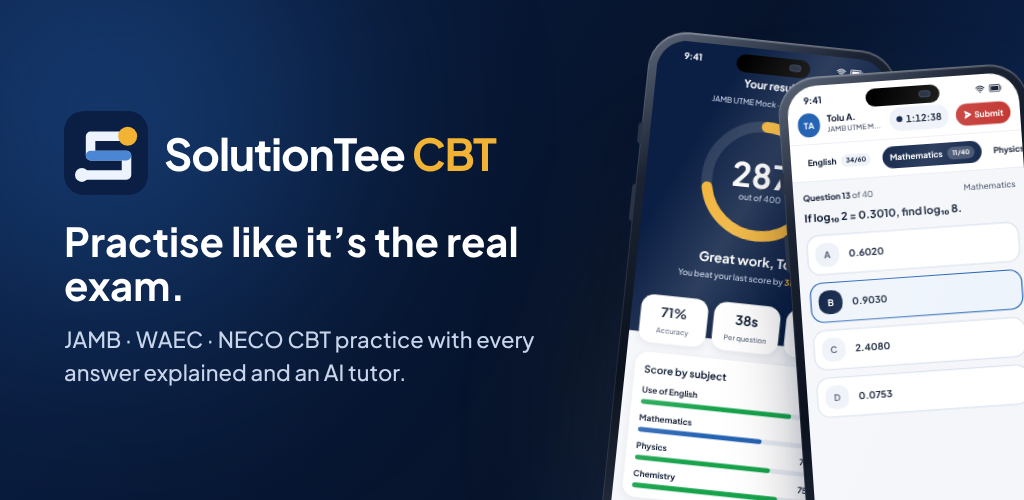
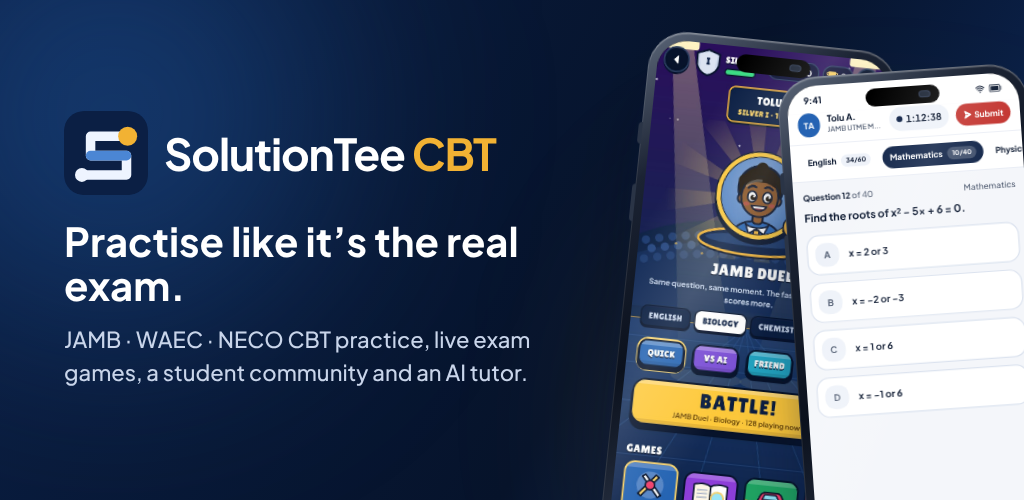
Play listing: new short and full description, store images 8-10, feature graphic, screenshot order, data safety line, what's new text
Claude-Session: https://claude.ai/code/session_01JPjwGfBDzbmRsSJFnQX7Gy

diff --git a/docs/play-console/README.md b/docs/play-console/README.md
@@ -13,6 +13,7 @@ Package name: **`com.solutiontee.cbt`**. Pages and files referred to below are a
 | Phone screenshots 1080 × 1920 (5) | `graphics/phone-1-cbt.png` … `graphics/phone-5-leaderboard.png` |
 | `graphics/phone-6-invite-friends.png` | Phone screenshot 6: invite friends and earn (Premium discount + XP) |
 | `graphics/phone-7-challenges.png` | Phone screenshot 7: practise in challenges and win (Premium days + XP) |
+| `graphics/phone-8-game-zone.png`, `phone-9-comprehension-clash.png`, `phone-10-community.png` | Phone screenshots 8–10 (13 Nov 2026): Game Zone, Comprehension Clash, Community, from the app's own screens |
 | `graphics/phone-6-invite-friends-cash.png`, `phone-7-challenges-cash.png` | Use instead of 6 and 7 **only** after cash prizes are approved and switched on |
 | Privacy Policy | https://cbt.solutiontee.com/privacy |
 | Terms of Service | https://cbt.solutiontee.com/terms |
@@ -118,7 +119,7 @@ Play Console → **Create app**:
 | Photos | Yes | No | Optional | App functionality (AI tutor question photos, profile photo) |
 | Other in-app messages (AI tutor chats) | Yes | No | Optional | App functionality |
 | App interactions | Yes | Yes (AdMob) | Required | App functionality, Analytics, Advertising or marketing, Fraud prevention |
-| Other user-generated content (answers, reports, appeals) | Yes | No | Optional | App functionality |
+| Other user-generated content (answers, reports, appeals, community posts and replies, app ratings and comments) | Yes | No | Optional | App functionality, Analytics (app ratings) |
 | Crash logs and Diagnostics (AdMob and Firebase SDKs) | Yes | Yes | Required | Analytics, Advertising or marketing, Fraud prevention |
 | Device or other IDs (advertising ID, push token, hashed device IDs) | Yes | Yes (advertising ID with AdMob) | Required | Advertising or marketing, Fraud prevention, App functionality |
 | Voice or sound recordings | **No** (the phone turns speech into text; the app receives text only) | | | |
@@ -135,13 +136,13 @@ Service providers acting for us (Supabase, Neon, Cloudflare, Brevo, Paystack, NV
 ## 5. Store listing (Grow → Store presence → Main store listing)
 
 - **App name:** `SolutionTee CBT – JAMB & WAEC`
-- **Short description (74/80):** `Practise JAMB, WAEC & NECO past questions in a real CBT, with an AI tutor.`
-- **Full description (2,445/4,000):**
+- **Short description (77/80):** `JAMB, WAEC & NECO CBT practice, exam games, a student community & an AI tutor`
+- **Full description (3,087/4,000):** (updated 13 Nov 2026 with Game Zone, Comprehension Clash, Community and tutors)
 
 ```
-Practise like it’s the real exam.
+Practise like it’s the real exam, then play, ask and learn.
 
-SolutionTee CBT helps Nigerian secondary-school students prepare for JAMB UTME, WAEC WASSCE and NECO SSCE with a computer-based test (CBT) that feels like exam day, clear explanations for every answer and an AI tutor that helps you understand.
+SolutionTee CBT helps Nigerian secondary-school students prepare for JAMB UTME, WAEC WASSCE and NECO SSCE with a computer-based test (CBT) that feels like exam day, clear explanations for every answer, live exam games, a friendly student community and an AI tutor.
 
 ★ A REAL CBT EXPERIENCE
 • Timed tests that look and work like the real computer-based exams
@@ -149,34 +150,42 @@ SolutionTee CBT helps Nigerian secondary-school students prepare for JAMB UTME, 
 • Full JAMB mocks (English + 3 subjects), quick tests, topic drills and custom exams
 • Auto-submit when time runs out; nothing is lost if your phone goes off
 
+★ GAME ZONE: LEARN WHILE YOU PLAY
+• 8 live games against students or the SolutionTee Bot, from Easy to Legend
+• JAMB Duel: same question, same moment, the faster right answer wins
+• Comprehension Clash: the same passage shown fast, then 5 questions on the main idea, the writer’s purpose, words in context and deductions. Built for JAMB Use of English
+• Speed Rush, Knowledge Survival, Maths Blitz, Word War, Memory Flash and Team Relay
+• Ranked games, friend codes, sound and music, XP and weekly ranks
+
+★ STUDENT COMMUNITY
+• Ask questions, answer others and share study tips with students across Nigeria
+• Tag @solutiontee and SolutionTee AI explains the post, even a photo of a question
+• Follow friends, like, repost and get notified when someone replies
+• Safe and friendly: every post is checked for our community rules
+
 ★ YOUR SCORE THE MOMENT YOU FINISH
 • Estimated JAMB score out of 400 and your score in each subject
-• Accuracy, time per question and progress over time
 • Every question with the right answer and a step-by-step explanation
 • Weak topics to practise next
 
-★ AI TUTOR FOR SCHOOLWORK
-• Type a question or snap a photo of it
-• Step-by-step working in simple English, with the final answer clearly marked
-• Ask it to explain again, give you a quick quiz or plan your study week
-• It only helps with schoolwork, so it is safe for students
+★ AI TUTOR AND REAL TUTORS
+• Type or snap a question and get step-by-step working in simple English
+• Request a real tutor and chat one-to-one with a teacher
+• Join live online JAMB classes
 
 ★ STUDY HUB
-• Past questions in study mode, with answers and explanations
-• Video solutions and topic lessons
-• Lesson notes with formulas, JAMB literature novels, the syllabus and brochures
+• Past questions in study mode, video solutions, lessons and notes
+• JAMB literature novels, the syllabus and brochures
 • Download to study offline
 
 ★ CHALLENGES, STREAKS AND LEADERBOARDS
 • Weekly challenges with the same questions for everyone
-• National and state leaderboards
-• Daily question, XP and streaks to keep you going
+• Countdown to your exam, daily question, XP and streaks
 • Win Premium days and XP
 
 ★ MADE FOR NIGERIAN STUDENTS
 • Works offline: practise without data and sync later
-• Data saver and small downloads
-• Light and dark mode
+• Data saver, small downloads, light and dark mode
 
 FREE AND PREMIUM
 SolutionTee CBT is free to use, with daily free practice and ads. Premium opens every past-question year, video solutions, lessons and notes, gives more AI tutor help and removes ads. Premium is a one-time purchase for the period you choose; it does not renew by itself.
@@ -192,7 +201,9 @@ SolutionTee CBT is an independent exam-practice platform and is not affiliated w
 ```
 
 - **App icon:** `graphics/app-icon-512.png` · **Feature graphic:** `graphics/feature-graphic-1024x500.png`
-- **Phone screenshots:** the 5 files `graphics/phone-*.png` (in order 1 → 5)
+- **Phone screenshots (Play takes up to 8), in this order:** `phone-1-cbt.png`, `phone-8-game-zone.png`,
+  `phone-9-comprehension-clash.png`, `phone-3-ai-tutor.png`, `phone-10-community.png`, `phone-2-results.png`,
+  `phone-7-challenges.png`, `phone-4-study.png`. (`phone-5-leaderboard.png` and `phone-6-invite-friends.png` are spares.)
 - Tablet screenshots: not needed (leave empty).
 - **Store settings:** Category **Education**; Tags: *Exam preparation*, *Study*, *Education* (choose what Play offers);
   Contact email **support@mail.solutiontee.com**, phone **+234 812 244 5948**, website **https://cbt.solutiontee.com**.
@@ -231,3 +242,13 @@ Then admin → Money → **Plans & prices**: put each ID in *Google Play product
 
 Push app changes as usual → GitHub builds → download the new .aab from /download/aab → Play Console → Production (or a
 testing track) → Create new release → upload → roll out. The version number goes up by itself.
+
+**What's new text for the 13 November 2026 update** (Release notes, at most 500 characters):
+
+```
+• New game: Comprehension Clash, read a passage fast, then beat your rival on 5 questions (great for JAMB Use of English)
+• Game Zone: music that keeps playing, full names, smoother play
+• Community: @mention suggestions, SolutionTee AI reads the whole post and photo, faster alerts
+• New Home cards for Game Zone and Community, a livelier exam countdown
+• Rate the app inside it, plus many fixes
+```
